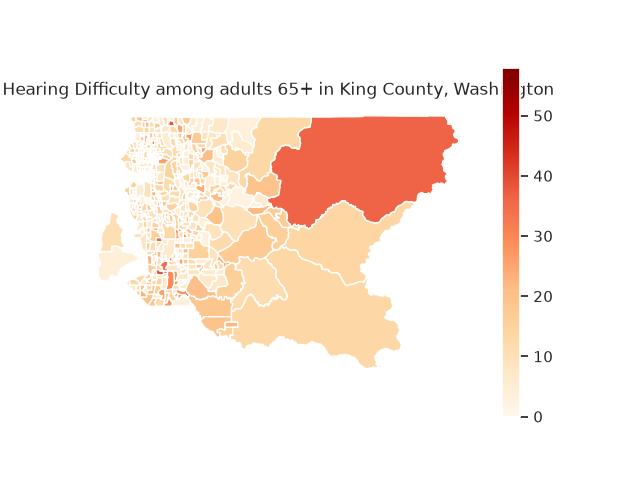
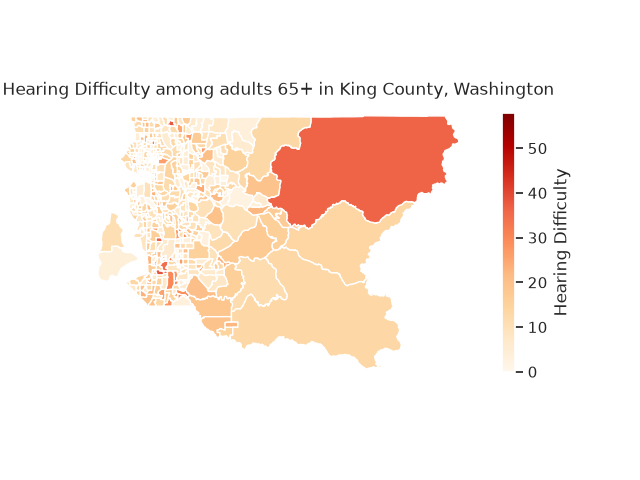
add asserts statement, fix label on plot

Changed region(s): [[0.7812, 0.125, 0.9062, 0.875]]

diff --git a/test_data.py b/test_data.py
@@ -61,7 +61,20 @@ def show_tract_data(geoid, language_raw_df, hearing_raw_df, cleaned_data):
 def count_missing_data(df, columns):
     for column in columns:
         missing_data = df[df[column] < 0]
-        print(column, " missing data: ", len(missing_data))
+        assert len(missing_data) == 0, column + " has missing data."
+
+def assert_clean_data(data):
+    assert len(data) == 482
+    geoids_len = data["GEOID"].str.len()
+    assert (geoids_len == 11).all(), "Some GEOIDS not length 11"
+    assert data["GEOID"].nunique() == len(data)
+    columns = ["Spanish_limited_percent",
+                "AAPI_limited_percent",
+                "hearing_difficulty_percent"]
+    for col in columns:
+        assert data[col].isna().sum() == 0 # no missing value
+        assert data[col].min() >= 0 # no negative value
+        assert data[col].max() <= 100 # no shares above 100%
 
 
 def main():
@@ -93,6 +106,9 @@ def main():
           MIN_POPULATION_SIZE,
           " for language: ",
           len(small_tracts))
+
+    assert len(language_raw_data) == 495
+    assert len(language_raw_data) - len(cleaned_data) == 13
 
     tracts = gpd.read_file(TIGER_PATH)
     tracts = tracts[tracts["COUNTYFP"] == "033"]

diff --git a/create_plots.py b/create_plots.py
@@ -34,7 +34,7 @@ sns.scatterplot(
 )
 ax.set_xlabel("AAPI Limited English (%)")
 ax.set_ylabel("Hearing Difficulty (%)")
-ax.set_title("Hearing Difficulty vs. Spanish Limited English")
+ax.set_title("Hearing Difficulty vs. AAPI Limited English")
 fig.savefig("plots/AAPI_vs_hearing.png")
 
 fig, ax = plt.subplots()
